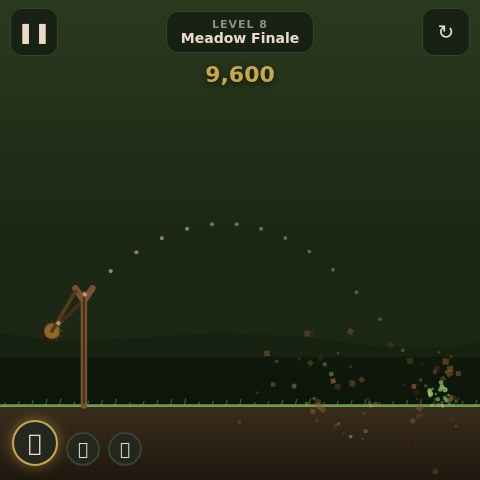
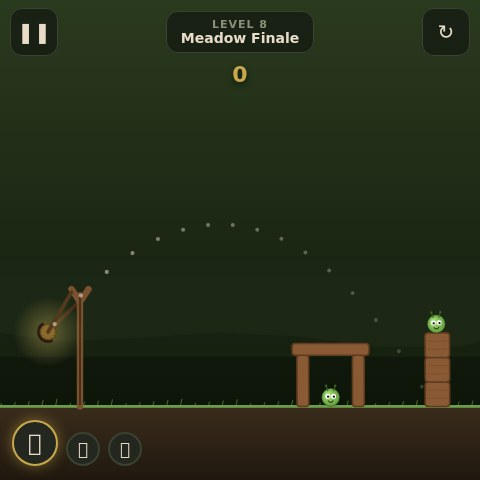
Burr Blast: clean thumbnail (post spawn-fix) + bump portal thumb cache stamp
The old thumbnail was captured before the spawn self-destruct fix, so it showed
a debris-covered fort. Regenerated from a clean in-game frame (slingshot + charge
glow + trajectory arc + a wood hut/tower with two aphids). Bump portal _tv so
returning players get the new image instead of the 1-year-immutable cached one.

diff --git a/portal/index.html b/portal/index.html
@@ -470,7 +470,7 @@ function card(g, isFeat){
   var shot;
   // Cache-bust stamp — thumbnails/screenshots are served 1-year-immutable, so
   // bump this when the image files change (2026-06-28: thumbs optimized ~95%).
-  var _tv = (function(u){ return u + (u.indexOf('?')>=0?'&':'?') + 'v=20260705'; });
+  var _tv = (function(u){ return u + (u.indexOf('?')>=0?'&':'?') + 'v=2026070502'; });
   if(isFeat){
     // Hub card uses its seed art; other satellites use their icon glyph
     if (g.thumb) shot = '<img loading="lazy" alt="'+nm+'" src="'+_tv(g.thumb)+'" onerror="_lwPh(this)">';
